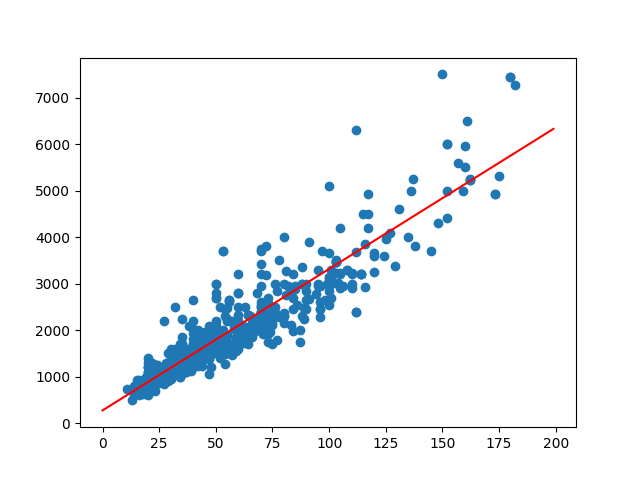
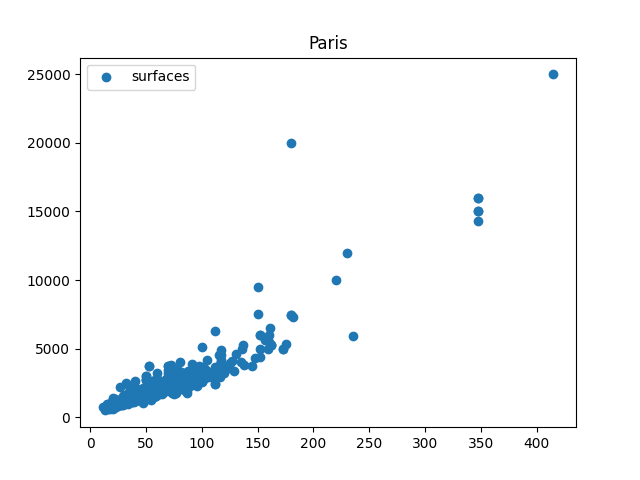
CEA

diff --git a/demo_pie.py b/demo_pie.py
@@ -1,0 +1,19 @@
+import matplotlib.pyplot as plt
+import numpy as np
+
+plt.style.use('_mpl-gallery-nogrid')
+
+
+# make data
+x = [1, 2, 3, 4]
+colors = plt.get_cmap('Blues')(np.linspace(0.2, 0.7, len(x)))
+
+# plot
+fig, ax = plt.subplots()
+ax.pie(x, colors=colors, radius=3, center=(4, 4),
+       wedgeprops={"linewidth": 1, "edgecolor": "white"}, frame=True)
+
+ax.set(xlim=(0, 8), xticks=np.arange(1, 8),
+       ylim=(0, 8), yticks=np.arange(1, 8))
+
+plt.show()

diff --git a/tp_house.py b/tp_house.py
@@ -1,4 +1,5 @@
 import numpy as np
+import matplotlib.pyplot as plt
 
 data = np.load("data/house/house.npz")
 print(data)
@@ -30,3 +31,9 @@ filter = surfaces < 25
 surfaces_inf_25 = surfaces[filter]
 loyers_inf_25 = loyer_m2[filter]
 print(loyers_inf_25.min(), np.max(loyers_inf_25), loyers_inf_25.sum() / loyers_inf_25.size)
+
+plt.title("Paris")
+plt.scatter(surfaces, loyers, label="surfaces")
+plt.legend()
+plt.savefig("data/house/house.png")
+plt.show()

diff --git a/demo_matplotlib.py b/demo_matplotlib.py
@@ -1,0 +1,12 @@
+import matplotlib.pyplot as plt
+import numpy as np
+
+x = np.arange(-2* np.pi, 2 * np.pi, 0.1)
+y = np.sin(x)
+y2 = np.cos(x)
+
+plt.subplot(2,2,1)
+plt.scatter(x, y)
+plt.subplot(2,2,2)
+plt.plot(x, y2, color="red")
+plt.show()
